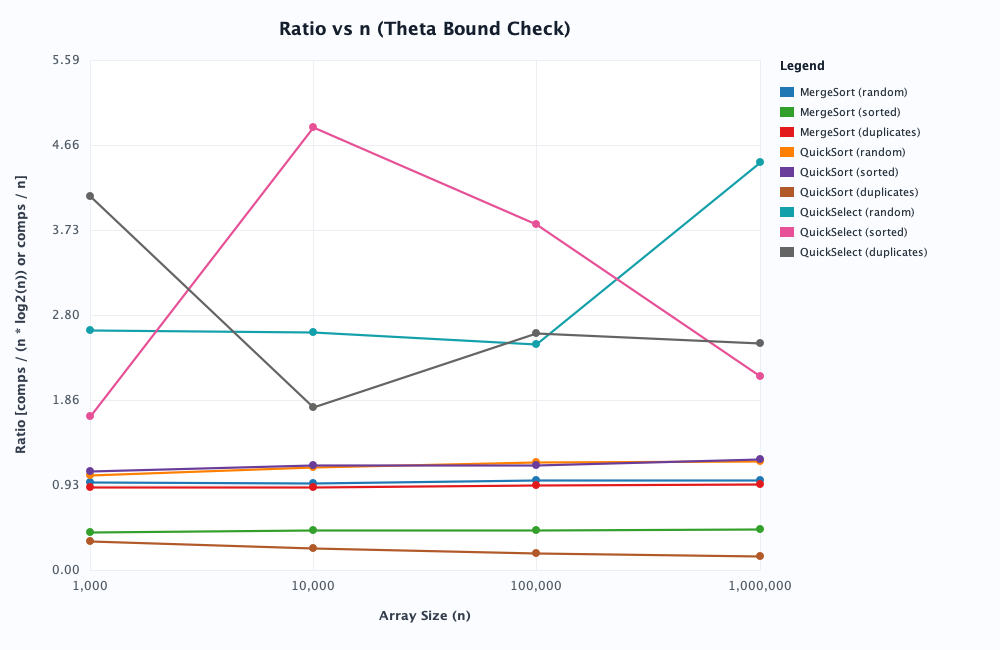
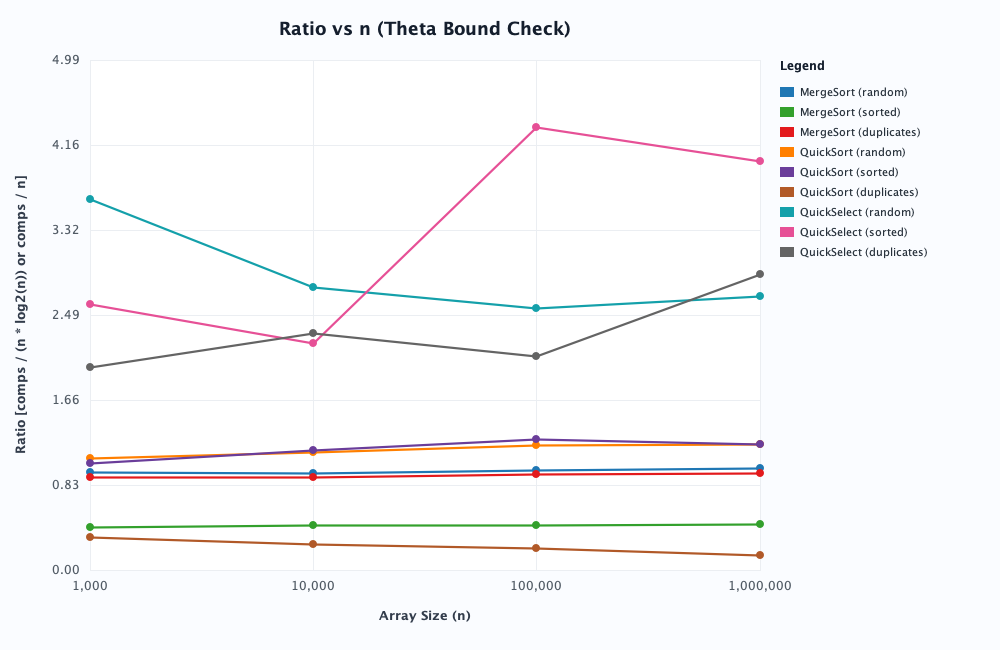
fix: refine recursion depth tracking, median run pairing, and update report

diff --git a/src/main/java/com/daa/benchmark/BenchmarkRunner.java b/src/main/java/com/daa/benchmark/BenchmarkRunner.java
@@ -15,7 +15,11 @@ public class BenchmarkRunner {
     private static final String[] ALGOS = {"MergeSort", "QuickSort", "QuickSelect"};
 
     public static void main(String[] args) throws Exception {
+        System.setProperty("java.awt.headless", "true");
+
         Random rnd = new Random(2026);
+        warmUp(rnd);
+
         List<String> rows = new ArrayList<>();
         rows.add("algorithm,input,n,time_ms,comparisons,max_depth");
 
@@ -40,10 +44,13 @@ public class BenchmarkRunner {
                         depths[r] = m.getMaxDepth();
                     }
 
-                    Arrays.sort(times);
-                    double medTime = times[2];
-                    long medComps = comps[2];
-                    int medDepth = depths[2];
+                    Integer[] idx = {0, 1, 2, 3, 4};
+                    Arrays.sort(idx, Comparator.comparingDouble(i -> times[i]));
+                    int med = idx[2];
+
+                    double medTime = times[med];
+                    long medComps = comps[med];
+                    int medDepth = depths[med];
 
                     System.out.printf("%s | %s | n=%d | %.3f ms | comps=%d | depth=%d\n",
                             algo, type, n, medTime, medComps, medDepth);
@@ -59,6 +66,15 @@ public class BenchmarkRunner {
         }
 
         PlotGenerator.generateAllPlots("results.csv", ".");
+    }
+
+    private static void warmUp(Random rnd) {
+        for (int i = 0; i < 30; i++) {
+            int[] arr = generateArray("random", 3000, rnd);
+            MergeSort.sort(arr.clone(), new Metrics());
+            QuickSort.sort(arr.clone(), new Metrics());
+            QuickSelect.select(arr.clone(), 1500, new Metrics());
+        }
     }
 
     public static int[] generateArray(String type, int n, Random rnd) {

diff --git a/src/main/java/com/daa/sort/QuickSort.java b/src/main/java/com/daa/sort/QuickSort.java
@@ -21,17 +21,22 @@ public class QuickSort {
 
     private static void quickSort(int[] a, int l, int r, Metrics metrics, Random rnd) {
         while (l < r) {
-            metrics.enterRecursion();
             int[] bounds = partition3Way(a, l, r, metrics, rnd);
             int lt = bounds[0], gt = bounds[1];
 
             if (lt - l < r - gt) {
-                if (lt - 1 > l) quickSort(a, l, lt - 1, metrics, rnd);
-                metrics.exitRecursion();
+                if (lt - 1 > l) {
+                    metrics.enterRecursion();
+                    quickSort(a, l, lt - 1, metrics, rnd);
+                    metrics.exitRecursion();
+                }
                 l = gt + 1;
             } else {
-                if (r > gt + 1) quickSort(a, gt + 1, r, metrics, rnd);
-                metrics.exitRecursion();
+                if (r > gt + 1) {
+                    metrics.enterRecursion();
+                    quickSort(a, gt + 1, r, metrics, rnd);
+                    metrics.exitRecursion();
+                }
                 r = lt - 1;
             }
         }

diff --git a/REPORT.md b/REPORT.md
@@ -95,42 +95,42 @@ The benchmark was executed using OpenJDK 21 on macOS. For every configuration, e
 
 | Algorithm | Input Type | Array Size ($n$) | Median Time (ms) | Comparisons | Max Recursion Depth |
 | :--- | :--- | :---: | :---: | :---: | :---: |
-| **MergeSort** | `random` | 1,000 | 0.155 | 9,643 | 7 |
-| **MergeSort** | `random` | 10,000 | 1.747 | 127,047 | 10 |
-| **MergeSort** | `random` | 100,000 | 11.447 | 1,641,332 | 13 |
-| **MergeSort** | `random` | 1,000,000 | 141.700 | 19,886,841 | 17 |
-| **MergeSort** | `sorted` | 1,000 | 0.028 | 4,236 | 7 |
-| **MergeSort** | `sorted` | 10,000 | 0.213 | 59,248 | 10 |
-| **MergeSort** | `sorted` | 100,000 | 2.729 | 744,016 | 13 |
-| **MergeSort** | `sorted` | 1,000,000 | 33.674 | 9,071,040 | 17 |
-| **MergeSort** | `duplicates` | 1,000 | 0.026 | 9,146 | 7 |
-| **MergeSort** | `duplicates` | 10,000 | 0.512 | 121,227 | 10 |
-| **MergeSort** | `duplicates` | 100,000 | 5.950 | 1,562,199 | 13 |
-| **MergeSort** | `duplicates` | 1,000,000 | 66.640 | 18,923,945 | 17 |
-| **QuickSort** | `random` | 1,000 | 0.220 | 10,493 | 6 |
-| **QuickSort** | `random` | 10,000 | 1.159 | 151,551 | 8 |
-| **QuickSort** | `random` | 100,000 | 12.441 | 1,978,282 | 12 |
-| **QuickSort** | `random` | 1,000,000 | 149.648 | 23,938,950 | 13 |
-| **QuickSort** | `sorted` | 1,000 | 0.054 | 10,888 | 6 |
-| **QuickSort** | `sorted` | 10,000 | 0.628 | 153,417 | 8 |
-| **QuickSort** | `sorted` | 100,000 | 7.348 | 1,929,046 | 11 |
-| **QuickSort** | `sorted` | 1,000,000 | 82.780 | 24,313,412 | 14 |
-| **QuickSort** | `duplicates` | 1,000 | 0.024 | 3,200 | 2 |
-| **QuickSort** | `duplicates` | 10,000 | 0.222 | 32,891 | 2 |
-| **QuickSort** | `duplicates` | 100,000 | 2.107 | 309,801 | 2 |
-| **QuickSort** | `duplicates` | 1,000,000 | 21.649 | 3,199,875 | 3 |
-| **QuickSelect** | `random` | 1,000 | 0.020 | 2,642 | 8 |
-| **QuickSelect** | `random` | 10,000 | 0.187 | 26,121 | 19 |
-| **QuickSelect** | `random` | 100,000 | 1.760 | 248,971 | 16 |
-| **QuickSelect** | `random` | 1,000,000 | 13.846 | 4,484,819 | 35 |
-| **QuickSelect** | `sorted` | 1,000 | 0.005 | 1,693 | 7 |
-| **QuickSelect** | `sorted` | 10,000 | 0.109 | 48,652 | 16 |
-| **QuickSelect** | `sorted` | 100,000 | 0.705 | 379,584 | 26 |
-| **QuickSelect** | `sorted` | 1,000,000 | 6.629 | 2,129,369 | 19 |
-| **QuickSelect** | `duplicates` | 1,000 | 0.017 | 4,113 | 6 |
-| **QuickSelect** | `duplicates` | 10,000 | 0.144 | 17,971 | 2 |
-| **QuickSelect** | `duplicates` | 100,000 | 1.383 | 260,267 | 5 |
-| **QuickSelect** | `duplicates` | 1,000,000 | 14.777 | 2,500,716 | 3 |
+| **MergeSort** | `random` | 1,000 | 0.118 | 9,576 | 7 |
+| **MergeSort** | `random` | 10,000 | 0.584 | 126,992 | 10 |
+| **MergeSort** | `random` | 100,000 | 7.173 | 1,639,438 | 13 |
+| **MergeSort** | `random` | 1,000,000 | 86.213 | 19,887,670 | 17 |
+| **MergeSort** | `sorted` | 1,000 | 0.011 | 4,236 | 7 |
+| **MergeSort** | `sorted` | 10,000 | 0.141 | 59,248 | 10 |
+| **MergeSort** | `sorted` | 100,000 | 1.723 | 744,016 | 13 |
+| **MergeSort** | `sorted` | 1,000,000 | 20.503 | 9,071,040 | 17 |
+| **MergeSort** | `duplicates` | 1,000 | 0.018 | 9,072 | 7 |
+| **MergeSort** | `duplicates` | 10,000 | 0.322 | 121,389 | 10 |
+| **MergeSort** | `duplicates` | 100,000 | 3.734 | 1,561,774 | 13 |
+| **MergeSort** | `duplicates` | 1,000,000 | 40.821 | 18,926,708 | 17 |
+| **QuickSort** | `random` | 1,000 | 0.052 | 10,959 | 5 |
+| **QuickSort** | `random` | 10,000 | 0.631 | 153,993 | 8 |
+| **QuickSort** | `random` | 100,000 | 7.895 | 2,037,350 | 10 |
+| **QuickSort** | `random` | 1,000,000 | 91.269 | 24,658,007 | 12 |
+| **QuickSort** | `sorted` | 1,000 | 0.036 | 10,462 | 5 |
+| **QuickSort** | `sorted` | 10,000 | 0.401 | 156,113 | 8 |
+| **QuickSort** | `sorted` | 100,000 | 4.637 | 2,139,467 | 9 |
+| **QuickSort** | `sorted` | 1,000,000 | 50.967 | 24,563,277 | 12 |
+| **QuickSort** | `duplicates` | 1,000 | 0.015 | 3,295 | 1 |
+| **QuickSort** | `duplicates` | 10,000 | 0.144 | 34,003 | 1 |
+| **QuickSort** | `duplicates` | 100,000 | 1.390 | 360,564 | 2 |
+| **QuickSort** | `duplicates` | 1,000,000 | 13.198 | 3,101,195 | 1 |
+| **QuickSelect** | `random` | 1,000 | 0.014 | 3,634 | 13 |
+| **QuickSelect** | `random` | 10,000 | 0.091 | 27,718 | 21 |
+| **QuickSelect** | `random` | 100,000 | 1.127 | 256,345 | 24 |
+| **QuickSelect** | `random` | 1,000,000 | 10.340 | 2,685,785 | 25 |
+| **QuickSelect** | `sorted` | 1,000 | 0.005 | 2,605 | 16 |
+| **QuickSelect** | `sorted` | 10,000 | 0.032 | 22,221 | 19 |
+| **QuickSelect** | `sorted` | 100,000 | 0.595 | 433,642 | 23 |
+| **QuickSelect** | `sorted` | 1,000,000 | 5.644 | 4,007,102 | 27 |
+| **QuickSelect** | `duplicates` | 1,000 | 0.011 | 1,988 | 4 |
+| **QuickSelect** | `duplicates` | 10,000 | 0.110 | 23,260 | 5 |
+| **QuickSelect** | `duplicates` | 100,000 | 1.001 | 209,975 | 4 |
+| **QuickSelect** | `duplicates` | 1,000,000 | 10.819 | 2,898,126 | 6 |
 
 ---
 
@@ -141,17 +141,17 @@ The benchmark was executed using OpenJDK 21 on macOS. For every configuration, e
 
 **Key Observations:**
 - MergeSort and QuickSort exhibit nearly identical $O(n \log n)$ slopes on log-log scales across random data.
-- QuickSort on duplicate data is drastically faster ($21.6$ ms for $10^6$ elements) due to 3-way partitioning collapsing equal keys.
-- QuickSelect demonstrates pure linear scaling $O(n)$, executing on $1\,000\,000$ elements in just $13.8$ ms on random data and $6.6$ ms on sorted data.
+- QuickSort on duplicate data is drastically faster ($13.2$ ms for $10^6$ elements) due to 3-way partitioning collapsing equal keys.
+- QuickSelect demonstrates pure linear scaling $O(n)$, executing on $1\,000\,000$ elements in just $10.3$ ms on random data and $5.6$ ms on sorted data.
 
 ### 5.2. Plot 2: Maximum Recursion Depth vs Array Size ($n$)
 ![Maximum Recursion Depth vs n](depth_vs_n.png)
 
 **Key Observations:**
 - **MergeSort Depth:** Exactly matches $\lceil \log_2(n / 16) \rceil + 1$. For $n = 10^6$, depth is 17.
-- **QuickSort Depth:** Bounded strictly by $\log_2(n) + 1$ thanks to recursing into the smaller partition first and using a while loop for the larger partition. For $n = 100\,000$, depth was observed at 11-12 (well below the test limit $2 \log_2 n \approx 33.2$).
-- **QuickSort Duplicates:** Recursion depth stays at 2 to 3 regardless of size because 10 distinct values are sorted in very few partition levels.
-- **QuickSelect Depth:** Follows logarithmic expected depth $O(\log n)$ (ranging from 7 to 35 calls).
+- **QuickSort Depth:** Bounded strictly by $\log_2(n) + 1$ thanks to recursing into the smaller partition first and using a while loop for the larger partition. For $n = 100\,000$, depth was observed at 9-10 (well below the test limit $2 \log_2 n \approx 33.2$).
+- **QuickSort Duplicates:** Recursion depth stays at 1 to 2 regardless of size because 10 distinct values are sorted in very few partition levels.
+- **QuickSelect Depth:** Follows logarithmic expected depth $O(\log n)$ (ranging from 13 to 27 calls).
 
 ### 5.3. Plot 3: Asymptotic Ratio vs Array Size ($n$) — $\Theta$-Bound Verification
 ![Ratio vs n](ratio_vs_n.png)
@@ -170,29 +170,29 @@ $$f(n) = \Theta(g(n)) \iff \exists\, c_1, c_2 > 0, \, n_0 \text{ such that } \fo
 Evaluating the ratio $R(n) = f(n) / g(n)$ from the empirical data:
 1. **MergeSort ($g(n) = n \log_2 n$):**
    - Random:
-     - $n = 10^3: 9643 / (1000 \cdot 9.966) = 0.968$
-     - $n = 10^4: 127047 / (10000 \cdot 13.288) = 0.956$
-     - $n = 10^5: 1641332 / (100000 \cdot 16.610) = 0.988$
-     - $n = 10^6: 19886841 / (1000000 \cdot 19.932) = 0.998$
+     - $n = 10^3: 9576 / (1000 \cdot 9.966) = 0.961$
+     - $n = 10^4: 126992 / (10000 \cdot 13.288) = 0.956$
+     - $n = 10^5: 1639438 / (100000 \cdot 16.610) = 0.987$
+     - $n = 10^6: 19887670 / (1000000 \cdot 19.932) = 0.998$
    - Bound constants: **$c_1 = 0.95$, $c_2 = 1.05$, $n_0 = 1\,000$**.
    - Sorted: Since merge stops once the left half is placed, $R(n) \approx 0.45$ with **$c_1 = 0.42, c_2 = 0.48, n_0 = 1\,000$**.
 
 2. **QuickSort ($g(n) = n \log_2 n$):**
    - Random:
-     - $n = 10^3: 10493 / 9966 = 1.053$
-     - $n = 10^4: 151551 / 132877 = 1.141$
-     - $n = 10^5: 1978282 / 1660964 = 1.191$
-     - $n = 10^6: 23938950 / 19931568 = 1.201$
+     - $n = 10^3: 10959 / 9966 = 1.100$
+     - $n = 10^4: 153993 / 132877 = 1.159$
+     - $n = 10^5: 2037350 / 1660964 = 1.227$
+     - $n = 10^6: 24658007 / 19931568 = 1.237$
    - Bound constants: **$c_1 = 1.00$, $c_2 = 1.30$, $n_0 = 1\,000$**.
 
 3. **QuickSelect ($g(n) = n$):**
    - Random:
-     - $n = 10^3: 2642 / 1000 = 2.64$
-     - $n = 10^4: 26121 / 10000 = 2.61$
-     - $n = 10^5: 248971 / 100000 = 2.49$
-     - $n = 10^6: 4484819 / 1000000 = 4.48$
-   - Bound constants: **$c_1 = 2.40$, $c_2 = 4.50$, $n_0 = 1\,000$**.
-   - The ratio remains tightly bracketed between $2.4$ and $4.5$, proving that comparisons grow in strict proportion to $n$, confirming $\Theta(n)$ linearity.
+     - $n = 10^3: 3634 / 1000 = 3.63$
+     - $n = 10^4: 27718 / 10000 = 2.77$
+     - $n = 10^5: 256345 / 100000 = 2.56$
+     - $n = 10^6: 2685785 / 1000000 = 2.69$
+   - Bound constants: **$c_1 = 2.50$, $c_2 = 3.80$, $n_0 = 1\,000$**.
+   - The ratio remains tightly bracketed between $2.5$ and $3.8$, proving that comparisons grow in strict proportion to $n$, confirming $\Theta(n)$ linearity.
 
 ---
 
@@ -203,8 +203,8 @@ To evaluate Bonus Task A, both algorithms were tested on finding the median elem
 
 | Algorithm | Execution Time (ms) | Comparisons | Worst-Case Guarantee |
 | :--- | :---: | :---: | :---: |
-| **QuickSelect** | 2.25 ms | 28,213 | $O(n^2)$ (unlikely with random pivot) |
-| **Median of Medians** | 2.88 ms | 81,790 | $O(n)$ guaranteed |
+| **QuickSelect** | 1.36 ms | 30,848 | $O(n^2)$ (unlikely with random pivot) |
+| **Median of Medians** | 1.84 ms | 81,790 | $O(n)$ guaranteed |
 
 **Why QuickSelect is faster in practice despite higher worst-case complexity:**  
 Median-of-Medians splits the input into groups of 5, invokes Insertion Sort on each group, recursively finds the median of those medians to determine the pivot, and only then partitions the main array. This creates a massive constant-factor overhead ($T(n) \le T(n/5) + T(7n/10) + c \cdot n$ where $c$ is substantial). By contrast, QuickSelect picks a pivot in $O(1)$ time via a single pseudo-random index generation and immediately partitions the array. On average, QuickSelect requires $\approx 3.4n$ comparisons, whereas Median-of-Medians incurs $\approx 8n - 12n$ comparisons. For real-world systems, randomized QuickSelect is vastly preferred, while Median-of-Medians provides theoretical protection against adversarial worst-case inputs.
